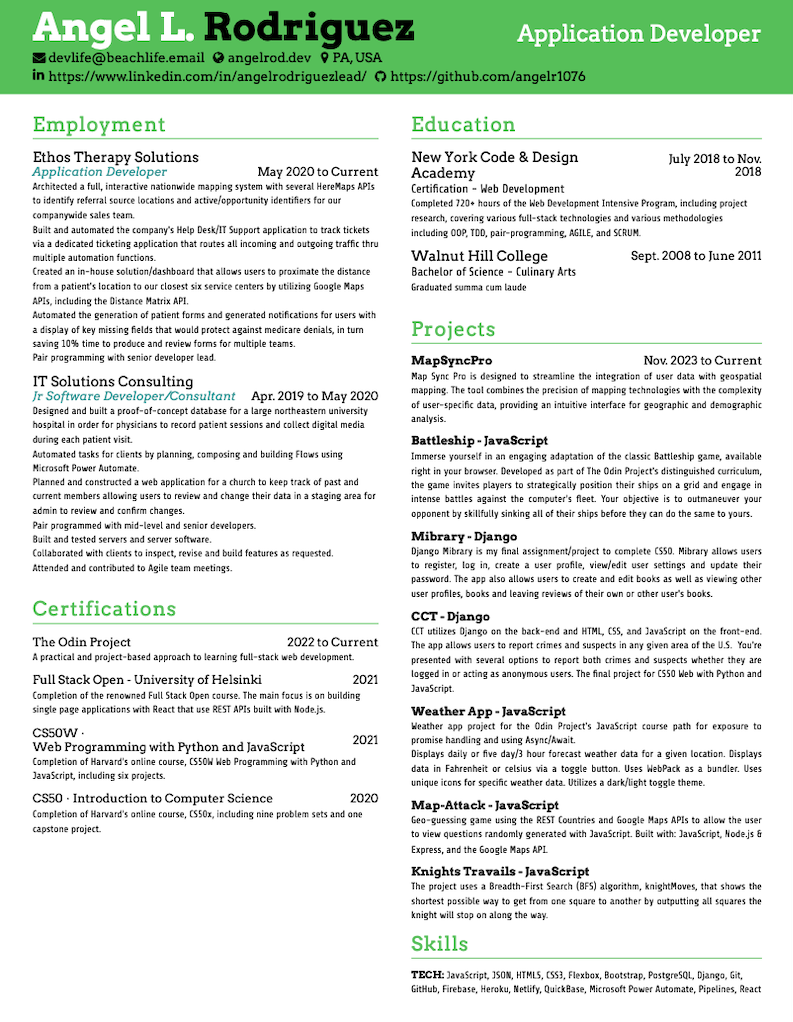
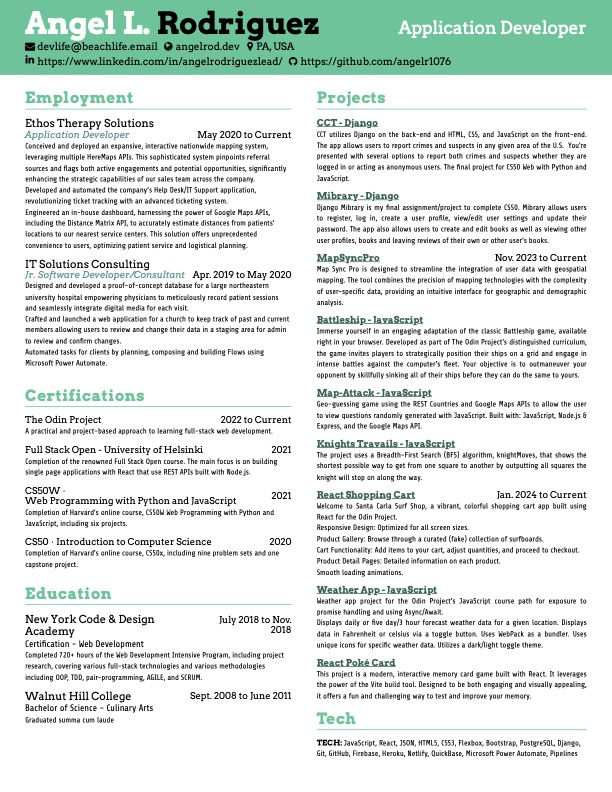
Updated resume formatting and buttons background colors

diff --git a/src/assets/styles/style.css b/src/assets/styles/style.css
@@ -27,7 +27,7 @@
   -webkit-text-size-adjust: 100%;
   --navbar-height: 60px;
   --light: #dadfe2;
-  --pop-green: #43d55c;
+  --pop-green: #00c49a;
   --transparent-light: #fefefe;
   --dark: #282c35;
   --nav-light: #f1f4f7;
@@ -492,19 +492,13 @@ textarea:focus {
   gap: 0.5em;
 
   color: #ffffff;
-  background-color: var(--dark);
+  background-color: var(--pop-green);
   border: 3px solid var(--light);
   border-radius: 5px;
   cursor: pointer;
   width: 100%;
 
   box-shadow: 0 5px 15px rgba(0, 0, 0, 0.1);
-}
-
-.live:hover,
-.github:hover,
-.send:hover {
-  background-color: var(--footer-dark);
 }
 
 /* To top button */
@@ -627,15 +621,8 @@ body.light {
 }
 
 .btn.light {
-  background-color: var(--transparent-light);
-  color: var(--dark);
   border: 3px solid var(--dark);
-
   transition: background-color 0.5s ease-in-out;
-}
-
-.btn.light:hover {
-  background-color: var(--btn-grayish);
 }
 
 .nav-link.light {
@@ -663,10 +650,8 @@ body.light {
 .resume__img {
   max-width: 100%;
   max-height: 100%;
-  .resume__img {
-    image-rendering: -webkit-optimize-contrast;
-    image-rendering: crisp-edges;
-  }
+  image-rendering: -webkit-optimize-contrast;
+  image-rendering: high-quality;
 }
 
 .resume__img.light {
